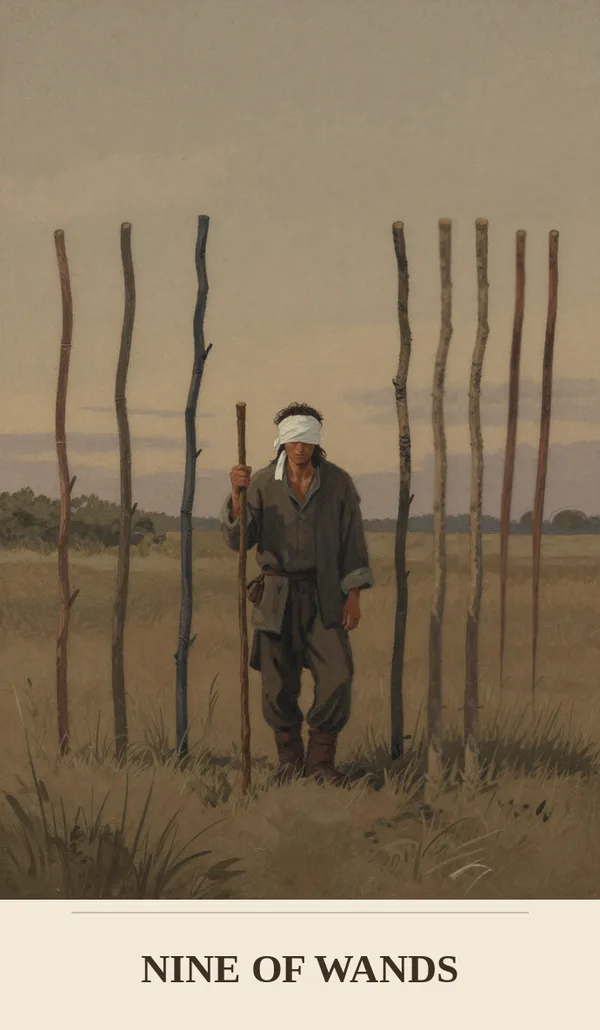
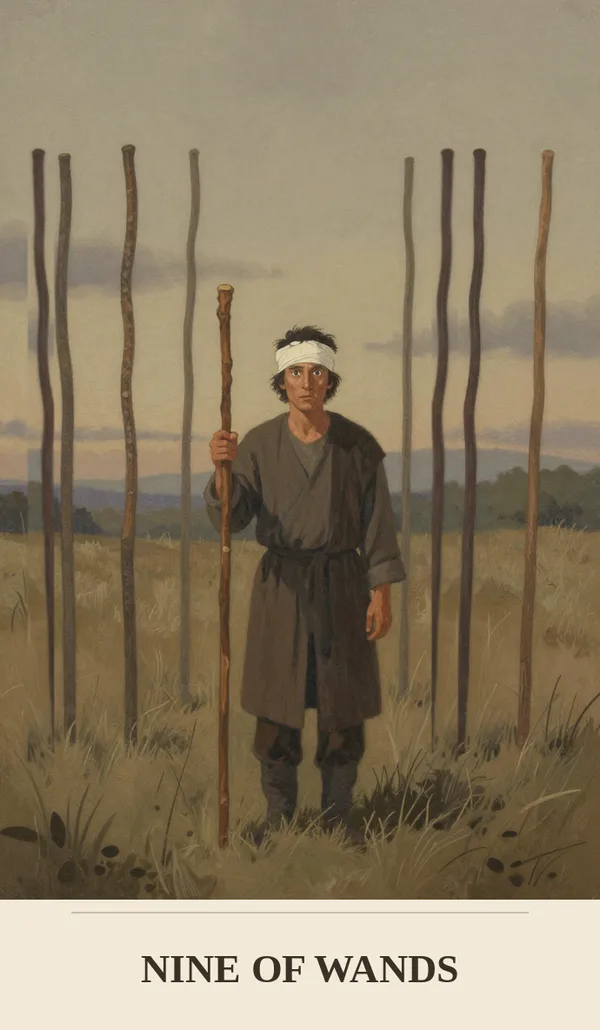
content(tarot): 4 card fixes — burning Tower (renamed המגדל הבוער), visible head in 10 of Wands, cap bandage + open eyes in 9 of Wands, brimming Ace of Cups
Tower: flames from windows + two figures falling head-first (renamed in
cards.ts too, /tarot/card SEO test updated). 10 of Wands: carrier's head
visible beside the sheaf, exactly ten staffs. 9 of Wands: bandage as a cap
above the brows, eyes open, exactly nine staffs. Ace of Cups: cup full,
water streaming into the pond. Assets v7 (he+en).

diff --git a/shared/tarot/cards.ts b/shared/tarot/cards.ts
@@ -63,7 +63,7 @@ export const CARDS: CardStruct[] = [
   major(13, "המוות", "Death"),
   major(14, "האיזון", "Temperance"),
   major(15, "השטן", "The Devil"),
-  major(16, "המגדל", "The Tower"),
+  major(16, "המגדל הבוער", "The Tower"),
   major(17, "הכוכב", "The Star"),
   major(18, "הירח", "The Moon"),
   major(19, "השמש", "The Sun"),
@@ -159,7 +159,7 @@ export function cardBySlug(slug: string): CardStruct | undefined {
  * גרסת נכסי החפיסה — מעלים אותה אחרי כל החלפת תמונות כדי לעקוף את מטמון
  * ה-CDN (Cloudflare) והדפדפן: שם הקובץ נשאר, ה-query string משתנה.
  */
-export const DECK_ASSETS_VERSION = 6;
+export const DECK_ASSETS_VERSION = 7;
 
 /** נתיב התמונה הציבורי של קלף; הנכסים מגיעים מצנרת tarot-deck. */
 export function cardImagePath(id: string): string {

diff --git a/shared/tarot/tarot.test.ts b/shared/tarot/tarot.test.ts
@@ -62,8 +62,8 @@ describe("tarot card structure", () => {
   it("looks up cards and builds image paths", () => {
     expect(cardById("pents-09")?.he).toBe("תשעה מטבעות");
     expect(cardById("nope")).toBeUndefined();
-    expect(cardImagePath("major-00")).toBe("/tarot-cards/major-00.webp?v=6");
-    expect(CARD_BACK_IMAGE).toBe("/tarot-cards/back.webp?v=6");
+    expect(cardImagePath("major-00")).toBe("/tarot-cards/major-00.webp?v=7");
+    expect(CARD_BACK_IMAGE).toBe("/tarot-cards/back.webp?v=7");
   });
 });
 

diff --git a/server/seo.test.ts b/server/seo.test.ts
@@ -368,7 +368,7 @@ describe("tarot card page SEO — /tarot/card/<slug>", () => {
       `<!doctype html><html><head><!-- SEO_HEAD_START --><title>x</title><!-- SEO_HEAD_END --></head><body></body></html>`,
       req,
     );
-    expect(html).toContain("המגדל — פירוש הקלף בטארוט");
+    expect(html).toContain("המגדל הבוער — פירוש הקלף בטארוט");
     expect(html).toContain(`${SITE_URL_PRODUCTION}/tarot/card/the-tower`);
   });
 });

diff --git a/client/src/pages/tarot/model.test.ts b/client/src/pages/tarot/model.test.ts
@@ -70,7 +70,7 @@ describe("toCardViews", () => {
     expect(views[0].name).toBe("השוטה");
     expect(views[0].interpretationHtml).toBe(""); // אין שורת DB — לא מתפוצץ
     expect(views[1].summary).toBe("עצמאות");
-    expect(views[1].imageUrl).toBe("/tarot-cards/pents-09.webp?v=6");
+    expect(views[1].imageUrl).toBe("/tarot-cards/pents-09.webp?v=7");
     expect(views[2].suitLabel).toBe("גביעים · מים");
   });
 });
